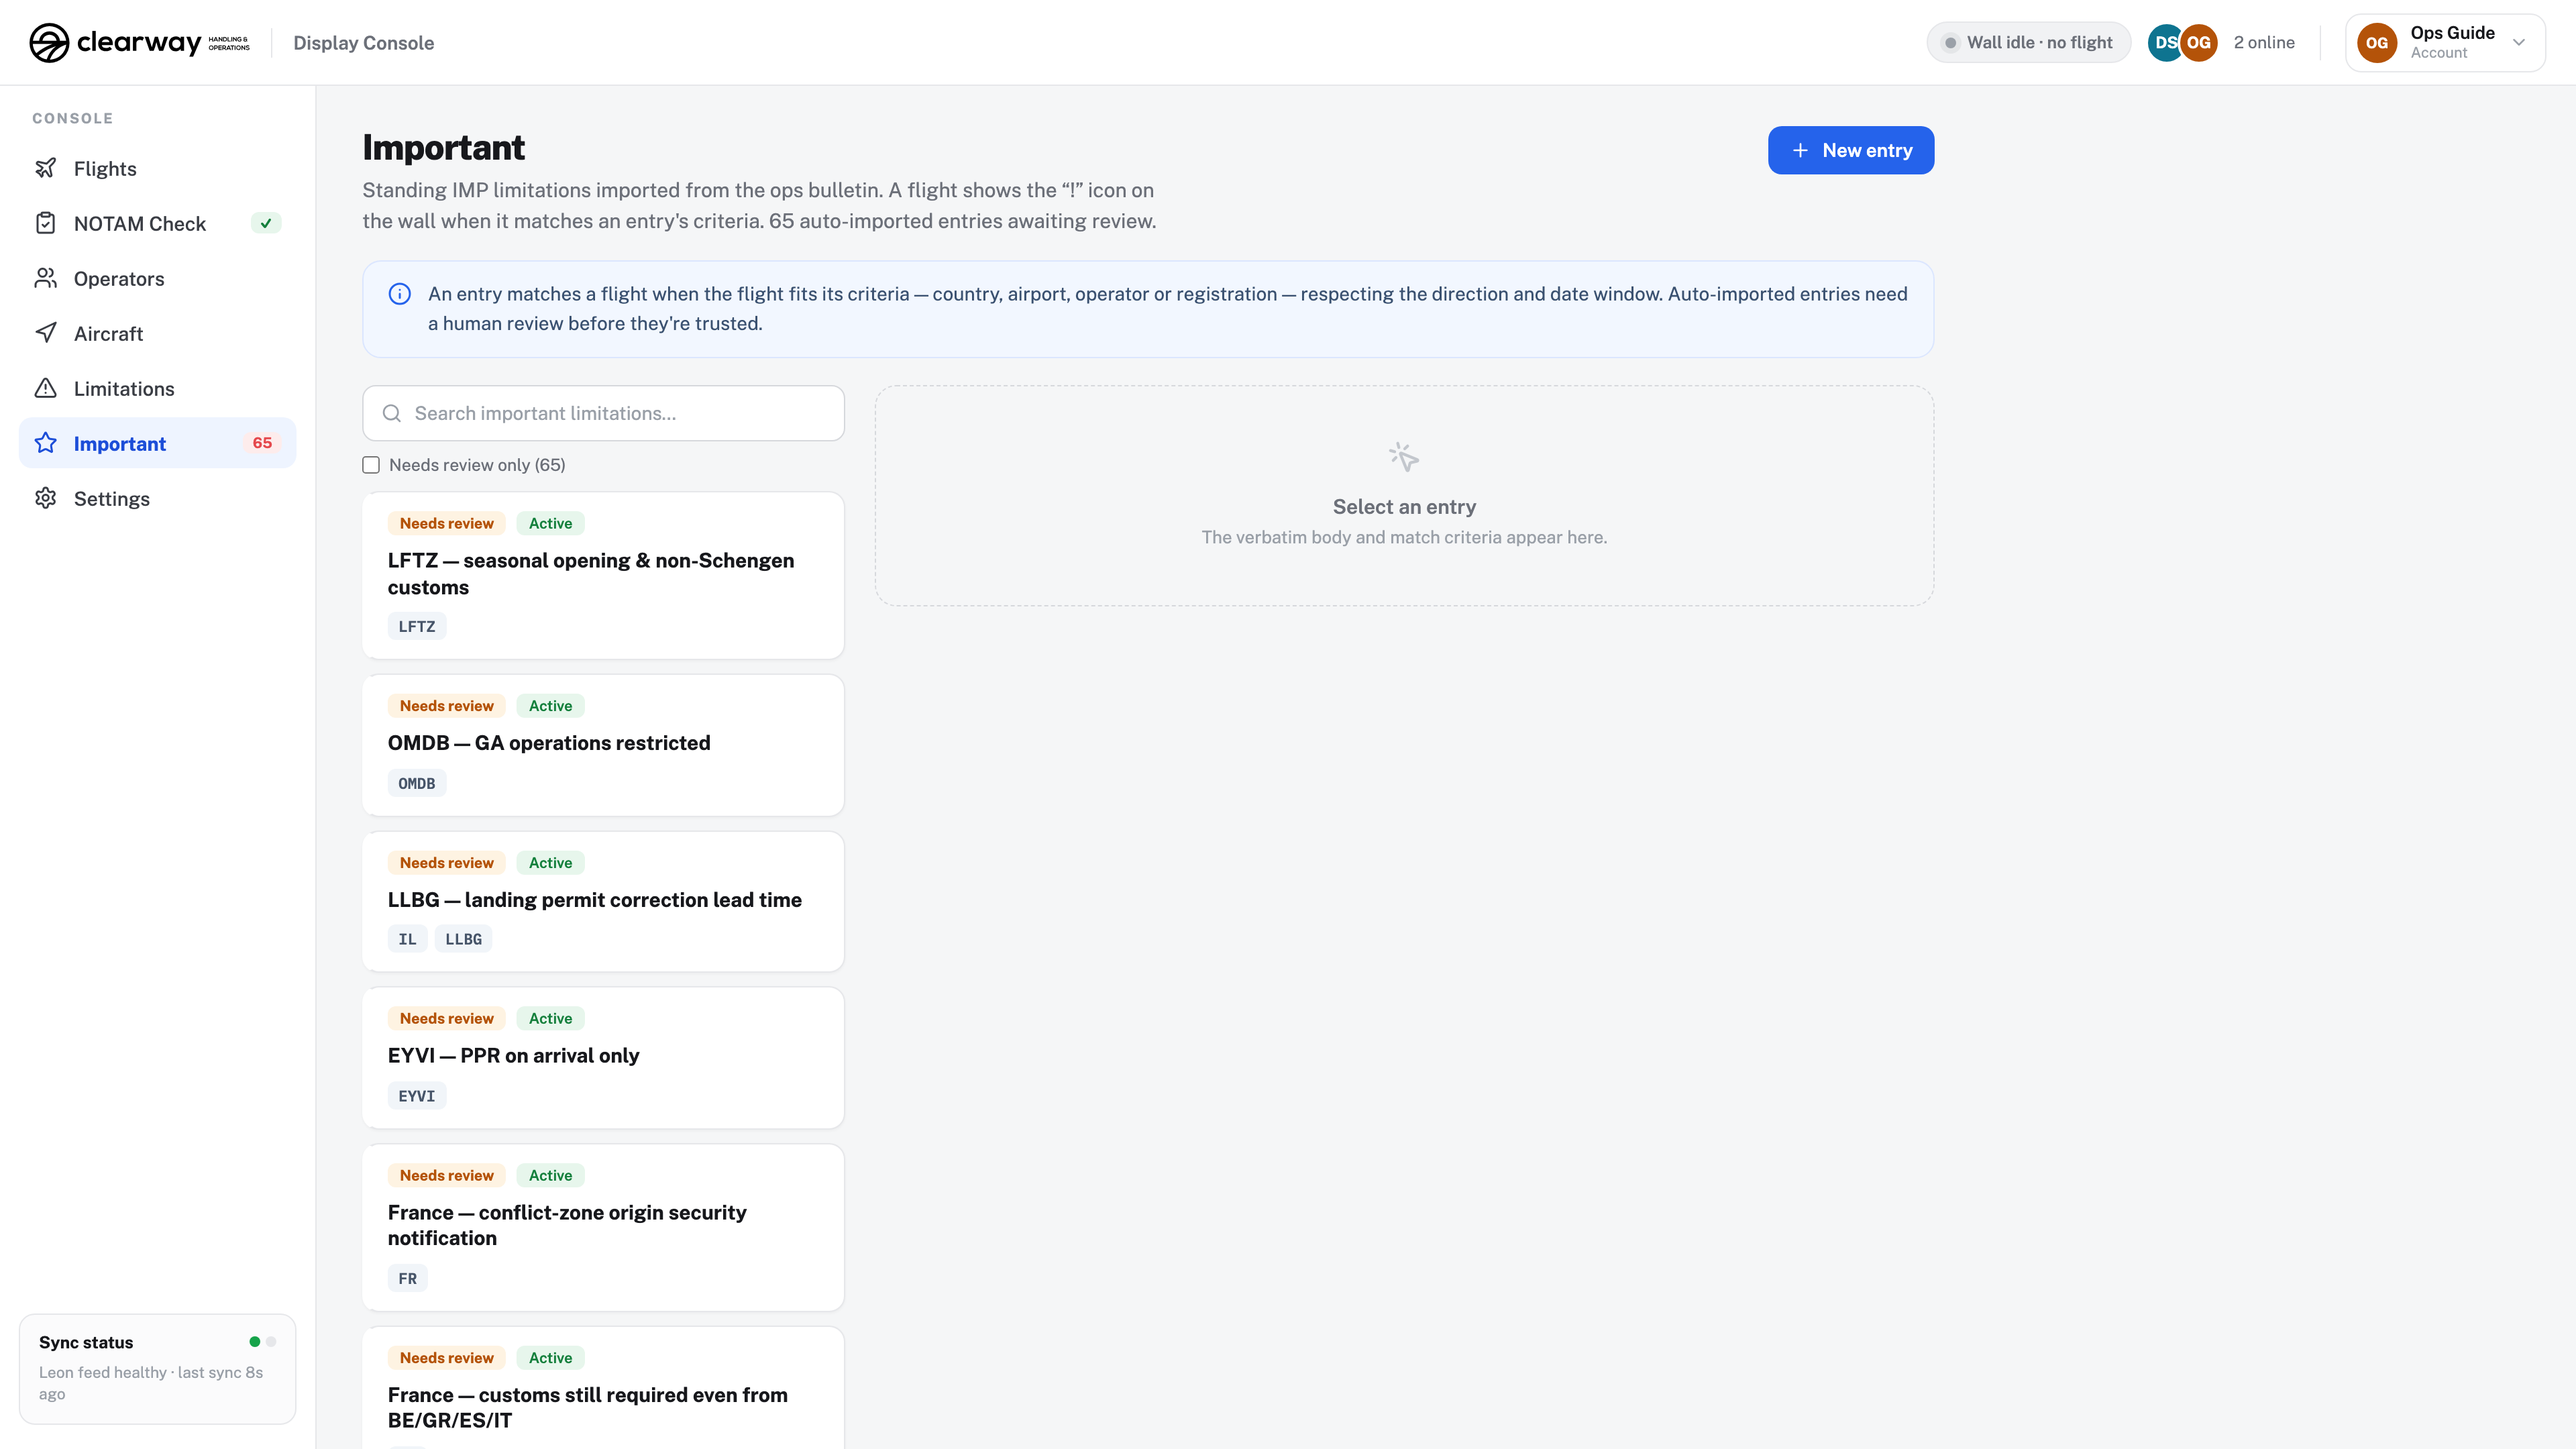
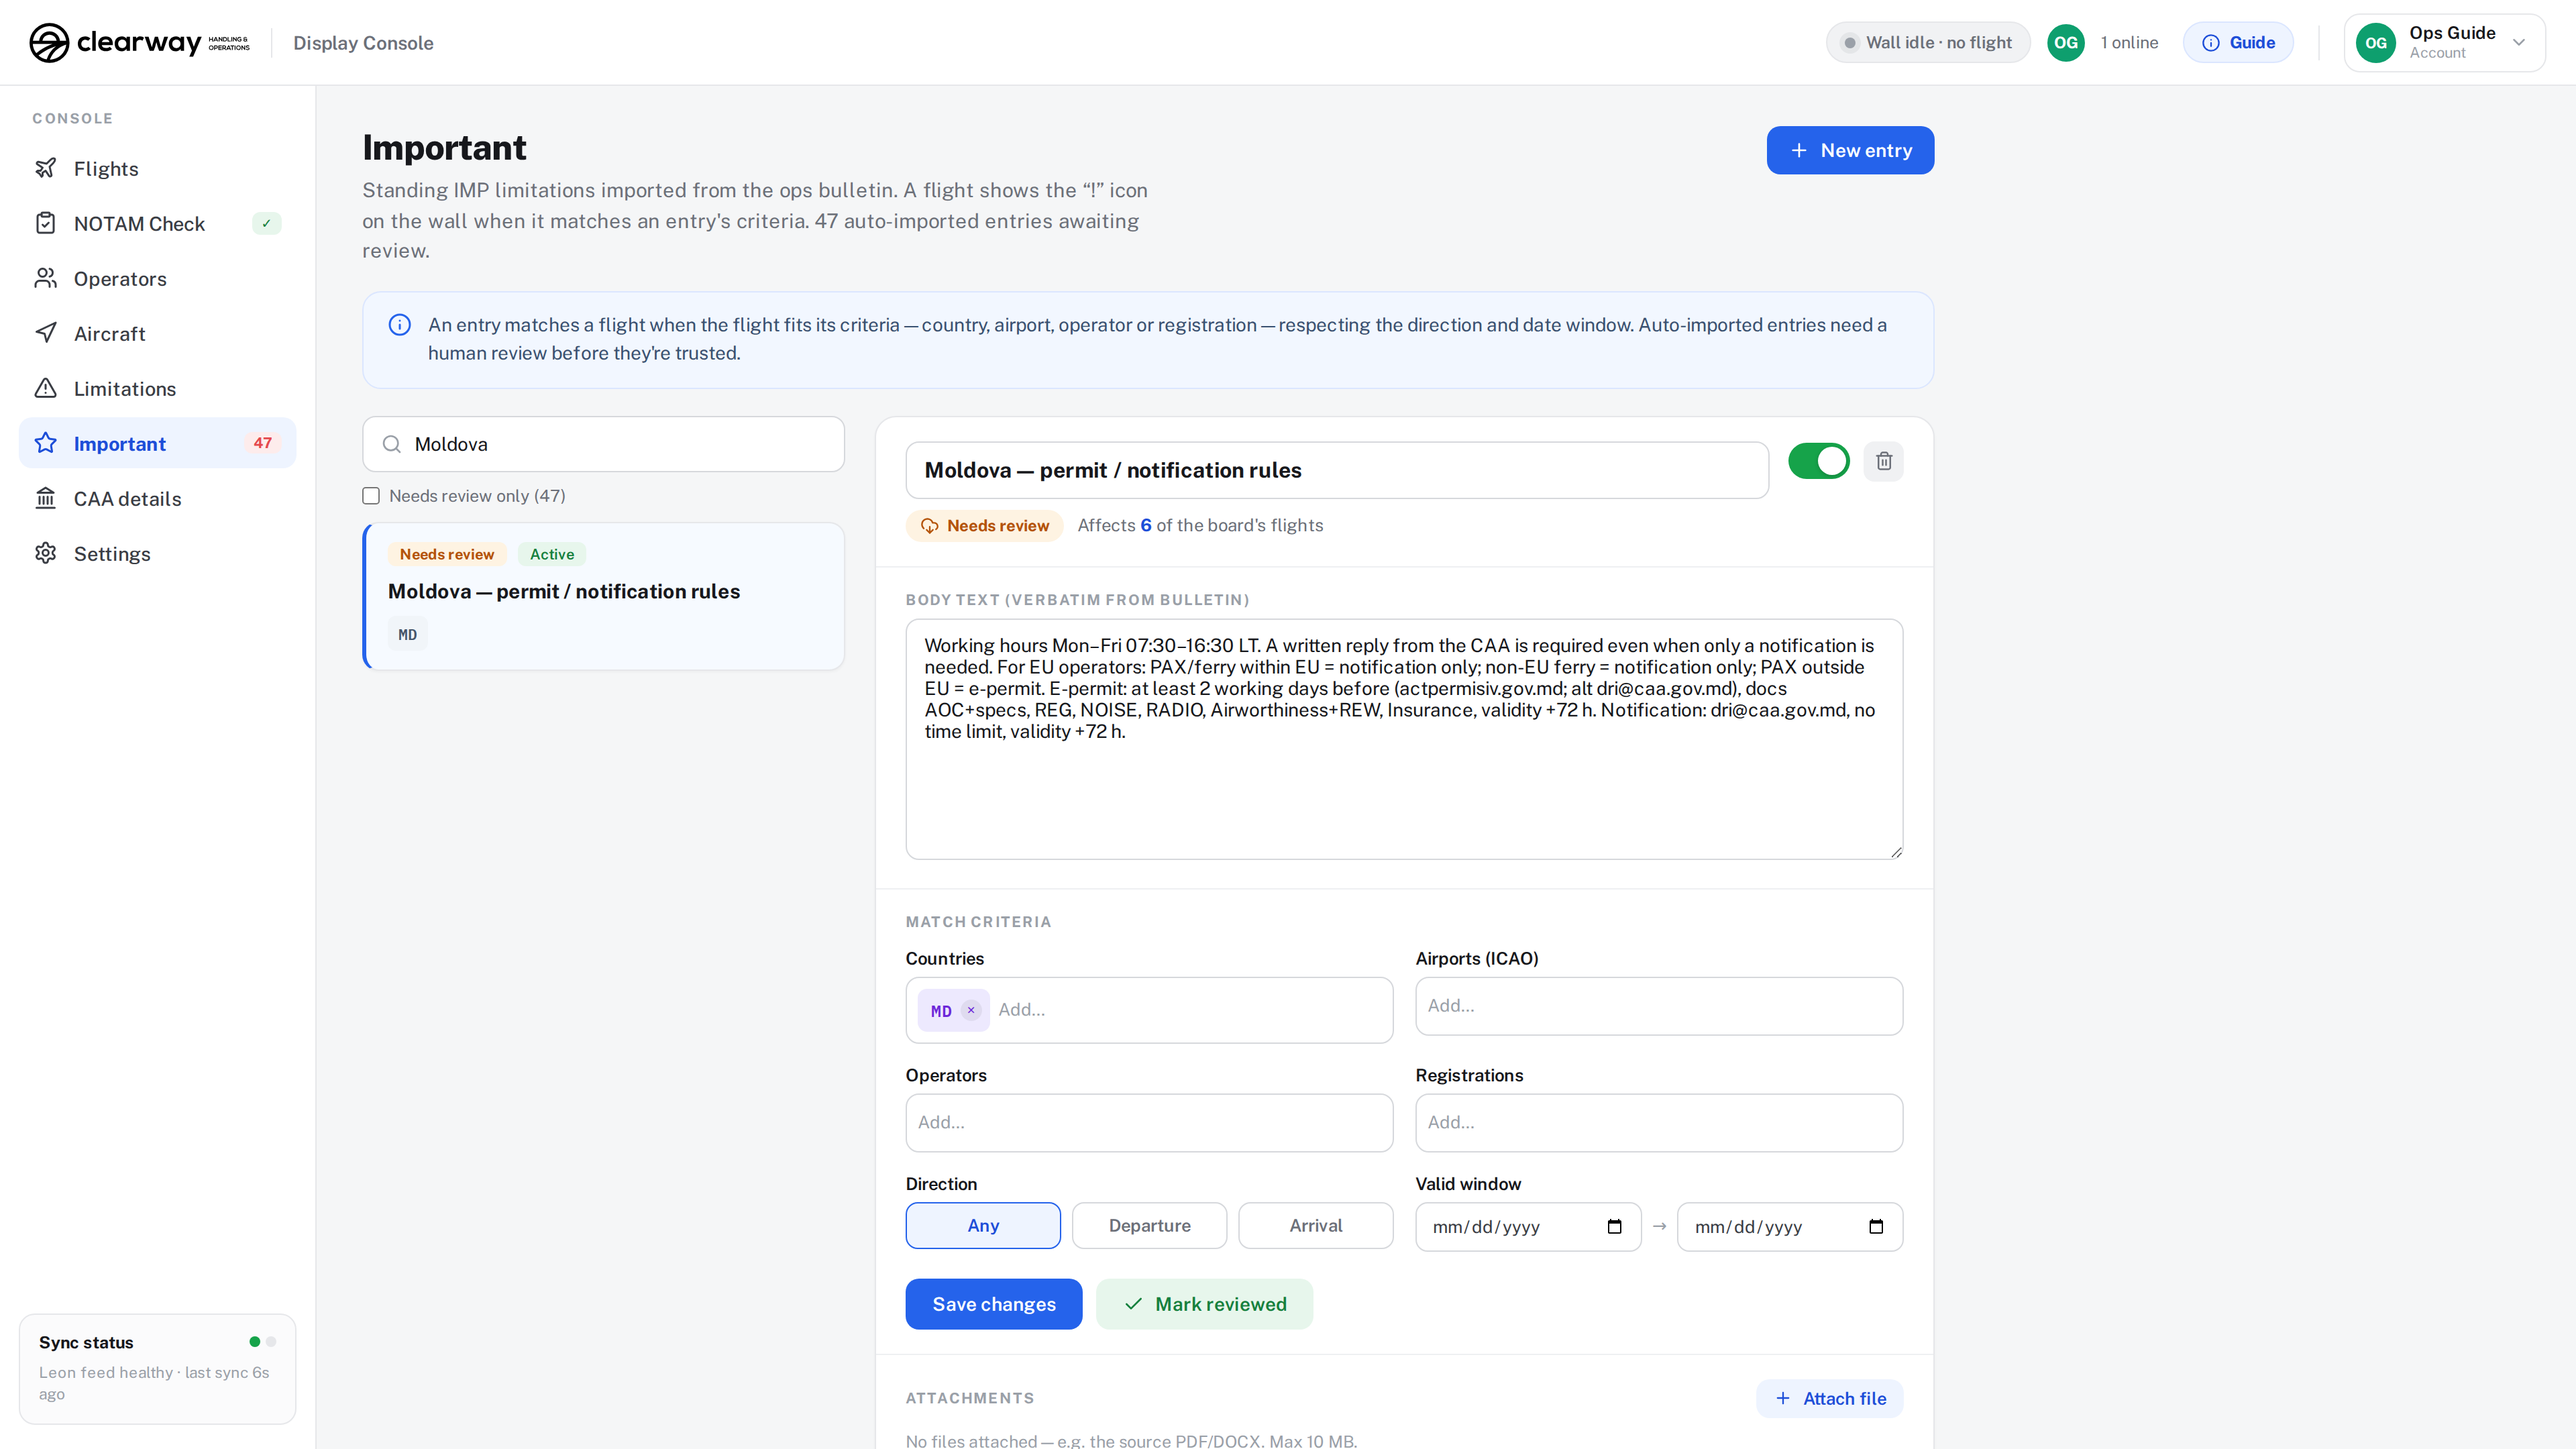
Docs: Stage B guide shots — CAA page/marker/overlay, marker-row glyphs, row-height pair, settings, IMP attachments+audit, airports picker
Captured 2026-07-09 against the deployed wall with real data (temp account
deleted after). New: console-caa(+match-flags), pill-caa-marker,
display-overlay-caa, display-height-thin/default, console-important-attachments,
picker-airports. Refreshed: pill-markers (all marker types incl. WX dep/arr
glyphs + NTM), console-settings, console-important, console-limitations,
display-timeline-full. INDEX.md updated incl. not-capturable notes.

diff --git a/docs/guide-shots/INDEX.md b/docs/guide-shots/INDEX.md
@@ -1,17 +1,25 @@
-# Digital Wall — guide screenshots (Stage A)
+# Digital Wall — guide screenshots (Stage A + Stage B)
 
-Captured 2026-07-08 (follow-up re-captures same night) against the deployed app (clearway.verxyl.com) with real
-live data, signed in through the normal auth as a temporary "Ops Guide"
-account (deleted after capture). Viewport 1920×1080 @2x. Read-only capture:
-the only wall-visible actions were opening/closing one overlay and briefly
-switching hour spacing (original settings restored); no NOTAM acks, no data
-edits.
+Stage A captured 2026-07-08, Stage B (CAA / markers / settings / IMP / pickers
+refresh) captured 2026-07-09 ~13:30 UTC — both against the deployed app
+(clearway.verxyl.com) with real live data, signed in through the normal auth as
+a temporary "Ops Guide" account (deleted after capture). Viewport 1920×1080 @2x.
+Read-only capture: the only wall-visible actions in Stage B were opening/closing
+one flight overlay from the Console and briefly switching Row / pill height
+0.70×→1.00×→0.70× for the before/after pair (original settings restored); no
+NOTAM acks, no data edits, nothing saved from any editor form.
+
+Stage B new/refreshed shots are marked **NEW** / **REFRESHED 2026-07-09** below.
 
 ## Display / timeline (the wall)
-- `display-timeline-full.png` — Full wall: Clearway logo + clock bar, status legend, live limitations sidebar, aircraft lanes, now-line, NOTAM CHECKED sign, presence pills.
+- `display-timeline-full.png` — **REFRESHED 2026-07-09** Full wall: Clearway logo + clock bar, status legend, live limitations sidebar, aircraft lanes, now-line, NOTAM CHECKED sign, presence pills. Current behaviour: flight-ID colour is OPS-scoped (red IDs), cancelled/positioning/sim flights no longer rendered, marker rows show IMP/CAA/WX/NTM chips.
 - `pill-scheduled.png` — Pill close-up: scheduled state (muted white), ICAOs + times.
 - `pill-arrived.png` — Pill close-up: arrived state (dusty mauve).
-- `pill-markers.png` — Marker row above a pill: NTM / IMP / per-airport WX category chips.
+- `pill-markers.png` — **REFRESHED 2026-07-09** Marker row above a pill (ORO1041), all marker types in one shot: IMP "!", teal CAA chip, per-airport WX chips with departure/arrival glyphs (takeoff/landing icons, category-coloured), NTM chip.
+- `pill-caa-marker.png` — **NEW** A second pill with the teal CAA marker in the marker row alongside IMP + WX dep/arr glyphs.
+- `display-overlay-caa.png` — **NEW** Side overlay for a CAA-matched flight (JTY52W LIEE→LUKK), scrolled to the CAA DETAILS contact blocks: ENAC (Italy) with Info/Contact/Mail, and Moldova CAA with Function/Contact/Phone/Mail; IMP text above, active limitations below.
+- `display-height-thin.png` — **NEW** Wall at Row / pill height 0.70× (the live ops setting): thinner rows, more registrations fit.
+- `display-height-default.png` — **NEW** Same wall at the default 1.00× for comparison (captured briefly, then restored to 0.70×).
 - `display-sidebar-legend.png` — Sidebar close-up: colour legend + manual limitation cards.
 - `display-overlay.png` — Side overlay open for a real flight: route + timings, unreviewed alerts, decoded weather for ADEP+ADES, IMP, limitations.
 - `display-sign-notam-checked.png` — Wall sign: NOTAM CHECKED (green, all airports reviewed).
@@ -30,9 +38,13 @@ edits.
 - `console-notam-check.png` — NOTAM Check: wall-sign banner, 11/11 progress + keyword legend, per-airport cards with flagged NOTAMs (Start/Expiry/Issued line, keyword highlights), CHECKED acks with names, Run check now.
 - `console-operators.png` — Operators: Leon operators, sync health, add-operator form.
 - `console-aircraft.png` — Aircraft: fleet list, upcoming counts, show/hide on wall.
-- `console-limitations.png` — Limitations (reworked): match-type selector (flight/airport/country/mixed), flight search, permanent toggle, date window, wall preview.
-- `console-important.png` — Important: IMP entries + needs-review filter (65 needing review after the reset).
-- `console-settings.png` — Settings: clocks with drag reorder, display scale, hour spacing, NOTAM keyword filter groups.
+- `console-limitations.png` — **REFRESHED 2026-07-09** Limitations: existing permanent limitation card (PERMANENT chip, "matches 5 flights"), editor with match-type selector (flight/airport/country/mixed), start/end date window, permanent toggle, wall sidebar preview.
+- `console-important.png` — **REFRESHED 2026-07-09** Important: IMP editor with every field editable — title, active toggle, verbatim body text, match criteria (countries/airports/operators/registrations chips, direction, valid window), Save changes + Mark reviewed.
+- `console-important-attachments.png` — **NEW** Same IMP editor scrolled to ATTACHMENTS (Attach file upload control) and the added-by / confirmed-by audit stamps ("Added: 2026-07-03 00:32Z · Confirmed: not yet reviewed").
+- `console-settings.png` — **REFRESHED 2026-07-09** Settings: display scale, hour spacing, the new Row / pill height slider (at the live 0.70×), flight visibility window with Upcoming horizon 17h + Post-landing removal 2h, wall clocks below.
+- `console-caa.png` — **NEW** CAA Details page: search + country/function filters, All/Any/Comm./Private toggle, 74 imported authorities with Function/Validity chips, editor showing verbatim sheet fields (authority name, country, validity, function, contact, phones, mail, AFTN/SITA).
+- `console-caa-match-flags.png` — **NEW** CAA editor scrolled to MATCH FLAGS: country/airport chips and the Any flight / Commercial only / Private only selector.
+- `picker-airports.png` — **NEW** Airport picker open in the Limitations editor: airports-table-sourced suggestions with real names ("EVRA · Riga International Airport · Latvia", …) after typing "rig". (Same source feeds the country pickers.)
 
 ## Auth
 - `auth-signin.png` — Sign-in screen (animated backdrop, email+password card).
@@ -44,6 +56,8 @@ edits.
 - `console-aip-send-progress-1.png` — A real send in flight: “Fetching documents (checking shared cache, then source)…”.
 - `console-aip-send-progress-2.png` — Delivered: “AIP AD-2 · LSZH (departure) — Sent to <requester>” with Send again. (Recipient shown is the temporary capture account, since a send goes to the signed-in user; the Queued/Emailing stages flashed sub-second on a cache hit and were not separable frames.)
 
-## Still awaiting live conditions (checked again 2026-07-08 ~01:15 Riga — not present; do NOT fake)
-- still awaiting: **delayed / CTOT / airborne pill states** — live data had only scheduled+arrived in both capture windows (night). Capture during active daytime ops.
-- still awaiting: **failed airport with Retry** — no airport fetch was failing in either window (intermittent).
+## Still awaiting live conditions (rechecked 2026-07-09 ~13:30 UTC — not present; do NOT fake)
+- still awaiting: **delayed / CTOT / airborne pill states** — live data had only scheduled+arrived in all capture windows. Capture during active daytime ops.
+- still awaiting: **failed airport with Retry** — no airport fetch was failing in any window (intermittent).
+- still awaiting (Stage B): **IMP attachment list with real files** and **populated added-by / confirmed-by names** — no production IMP entry has attachments or a confirmed review yet (all 60 are auto-imported, awaiting ops review), and staging one would mean creating prod records. `console-important-attachments.png` shows the upload control, empty-state text and the audit line as they genuinely are.
+- still awaiting (Stage B): a **country picker** shot in isolation — the airports picker (`picker-airports.png`) was the cleanest live example; both pull from the same Supabase airports table.
